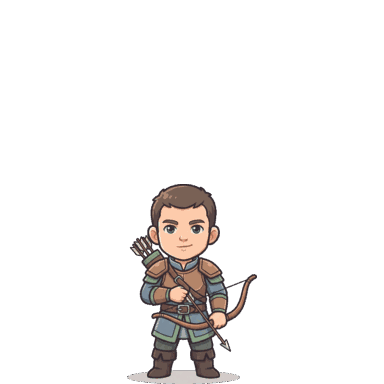
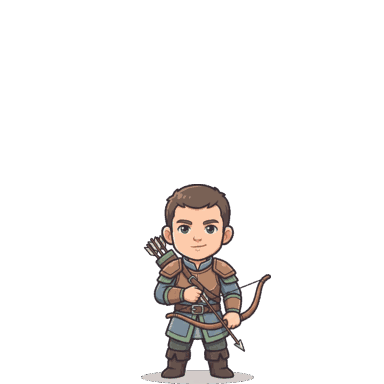
fix(art): マップの駒の横位置を体の中心に合わせる
弓や杖を横に構えた駒は、武器を含む外接矩形が中心に置かれるせいで体が
ヘックス中心からずれていた。どのマスに立っているかを読ませるのは体と
足元なので、そちらを中心に合わせ、武器は隣へはみ出させる。

unit_skin.csv に map_offset_x（基準高さ200px に対する px・プラスが右）を
足し、書き出し時に片側へ透明余白を足してずらす。ゲーム側は読まない列で、
map_scale と同じくキャンバスの余白として PNG に焼き込む。

切れ検出も直した。従来は絵の幅がキャンバス幅に達したかしか見ておらず、
横へずらして片側だけ切れる場合を拾えなかったので、トリム後のページ位置を
見て端に接したら警告する。既存の全ユニットで誤検出は出ない。

Changed region(s): [[0.3125, 0.4688, 0.7188, 1.0]]

diff --git a/doc/art/units.md b/doc/art/units.md
@@ -156,6 +156,8 @@ SUBJECT（生成プロンプト本体）の置き場：
 
 生成は3ブロックを順に貼る：STYLE（共通・固定・ポーズ非依存）＋ POSE（下のカタログから役割で選ぶ）＋ SUBJECT（ユニット別）。POSE と SUBJECT は `{skin_id}_combat_prompt.txt` に一緒に置く（先頭に POSE 行 → SUBJECT）。STYLE は本 doc が正本。
 
+カタログに載せるのは2体以上で使い回す POSE だけ。1体しか使わない姿勢（乗り物のように、その駒の形に固有のもの）はカタログに置かず、そのユニットの `{skin_id}_combat_prompt.txt` の先頭に直接書く。文面が doc と txt の両方にあると、片方だけ直したときにずれる。
+
 STYLE（共通・固定・ポーズ非依存）:
 ```
 STYLE: A single fantasy tactics-game battle piece of ONE unit, drawn in the
@@ -204,13 +206,7 @@ POSE (unarmed): A lunging bare-handed attack — both arms (or claws) thrust out
 ```
 POSE (drift): A floating attack pose — the body hovers clear of the ground with no weight on any foot, drifting toward the enemy on the right with both hands (or the weapon) reaching ahead, the trailing hem or tail streaming out behind. For flying units.
 ```
-```
-POSE (haul): A hauling pose, seen from the side — the vehicle rolls toward the right of the frame under its load, the draft animal (if any) leaning into the harness with its head low and legs mid-stride, the cargo body following behind so the hood, wheels/hull and lashed load all read clearly. It does NOT fight and takes no combat stance: no weapon anywhere, no raised guard, no aggression — just a heavy non-combat vehicle pressing on across the battlefield. For ground transport units.
-```
-```
-POSE (haul air): A cruising flight pose, seen from the side — the airborne transport makes way toward the right of the frame under its load, hanging clear of the ground with nothing touching the earth, hull level and nose slightly ahead, so the envelope, hull, propellers and lashed cargo all read clearly. It carries one light gun for self-defence but is not attacking: no charge, no raised guard, no aggression — a heavy transport pressing on across the battlefield. For flying transport units.
-```
-- 近接（歩兵・盗賊系）＝`melee`／支援・詠唱（クレリック・プリースト・ビショップ）＝`channel`／攻撃魔術（メイジ・ウィザード・ウィッチ・ソーサラー）＝`cast`／遠隔（弓・砲兵）＝`ranged`／指揮・号令（パラディン等）＝`rally`／壁・盾役（ナイト等）＝`guard`／武器を持たない敵（ゾンビ・グール等）＝`unarmed`／飛行（ゴースト等）＝`drift`／地上の輸送（馬車）＝`haul`／飛行する輸送（飛空艇）＝`haul air`。据置でも攻撃する兵器（バリスタ）は `ranged`。
+- 近接（歩兵・盗賊系）＝`melee`／支援・詠唱（クレリック・プリースト・ビショップ）＝`channel`／攻撃魔術（メイジ・ウィザード・ウィッチ・ソーサラー）＝`cast`／遠隔（弓・砲兵）＝`ranged`／指揮・号令（パラディン等）＝`rally`／壁・盾役（ナイト等）＝`guard`／武器を持たない敵（ゾンビ・グール等）＝`unarmed`／飛行（ゴースト等）＝`drift`。据置でも攻撃する兵器（バリスタ）は `ranged`。輸送（馬車・飛空艇）は乗り物ごとに姿勢が違うので、カタログではなく各 `{skin_id}_combat_prompt.txt` の先頭に書いてある。
 - 足が無い駒（ゴースト等）は STYLE の `Full body with both feet visible` が噛み合わない。SUBJECT 側で「足は無く裾が霞に溶ける」と上書きする（`drift` を使う駒はたいてい該当する）。
 - 人型でない駒（輸送・兵器）は STYLE の頭身・表情・武器の各指定が噛み合わない。SUBJECT 側で「人は乗せない」（武装する駒は「武装はこの1門だけ」）と明示し、チビ体型の指定は牽引する動物にだけ効かせる。生き物が1つも居ない駒（バリケード・飛空艇等）は、効かせる先が無いので SUBJECT の末尾で「頭身・顔・手足・足元・武器の指定はこの駒には適用されない」と明示的に打ち消す。
 - 兵器の静物は、地形タイルの柵（`assets/terrain/fence.png`＝くすんだ灰緑の細い横木）と盤上で紛れる。SUBJECT で陣営色・鉄帯・二重の厚みを要求し、「地形の柵には見えないこと」を明記して描き分ける。

diff --git a/doc/gdd/units.md b/doc/gdd/units.md
@@ -48,7 +48,7 @@
 - `data/units/convert.gd`（headless）が **CSV → コード用JSON** を生成。実行: `godot --headless --script res://data/units/convert.gd`
 - **CSVは2行ヘッダ**: 1行目=英語キー（コードが使う）／2行目=日本語ラベル（人間用・変換時は読み飛ばす）／3行目以降=データ。参考用の列（兵種・備考など）を足してもよい（コードは未知キーを無視）。
 - `data/units/unit_type.csv` → `data/units/unit_type.json`（**生成物・手で触らない**）。
-- `data/units/unit_skin.csv`（1行=1スキン: **`skin_id, name, side, type_id, category, map_scale, combat_scale, retainers`**。`skin_id` が主キー／`category`＝管理分類: 基準・ゴブリン・アンデッド・デモ、この順に整列／`map_scale`・`combat_scale`＝書き出し時の背丈倍率（[../art/units.md](../art/units.md) §3）／`retainers`＝戦闘演出でボスの脇に並べる別スキン（`|` 区切り・空＝全部本人。[../tech/combat_scene.md](../tech/combat_scene.md)））→ `data/units/unit_skin.json`。`category` は JSON にも出力する参考データ（skin は見た目レイヤー＝ゲームロジックでは参照しない。マップエディタの絞り込み等ツール用）。画像・説明は当面空で、必要時にCSVへ列追加。
+- `data/units/unit_skin.csv`（1行=1スキン: **`skin_id, name, side, type_id, category, map_scale, map_offset_x, combat_scale, retainers`**。`skin_id` が主キー／`category`＝管理分類: 基準・ゴブリン・アンデッド・デモ、この順に整列／`map_scale`・`combat_scale`＝書き出し時の背丈倍率（[../art/units.md](../art/units.md) §3）／`map_offset_x`＝書き出し時の横位置補正（体の中心をヘックス中心に合わせる。同§3.1）／`retainers`＝戦闘演出でボスの脇に並べる別スキン（`|` 区切り・空＝全部本人。[../tech/combat_scene.md](../tech/combat_scene.md)））→ `data/units/unit_skin.json`。`category` は JSON にも出力する参考データ（skin は見た目レイヤー＝ゲームロジックでは参照しない。マップエディタの絞り込み等ツール用）。画像・説明は当面空で、必要時にCSVへ列追加。
 - `data/movement/movement.csv` → `data/movement/movement.json`（移動タイプ×地形コスト表）。
 - 表計算向き＝**ユニット性能・エイリアス・移動タイプ**の3表（1行=1レコードのフラット表）。ステージ(json) は手書きのまま。
 
